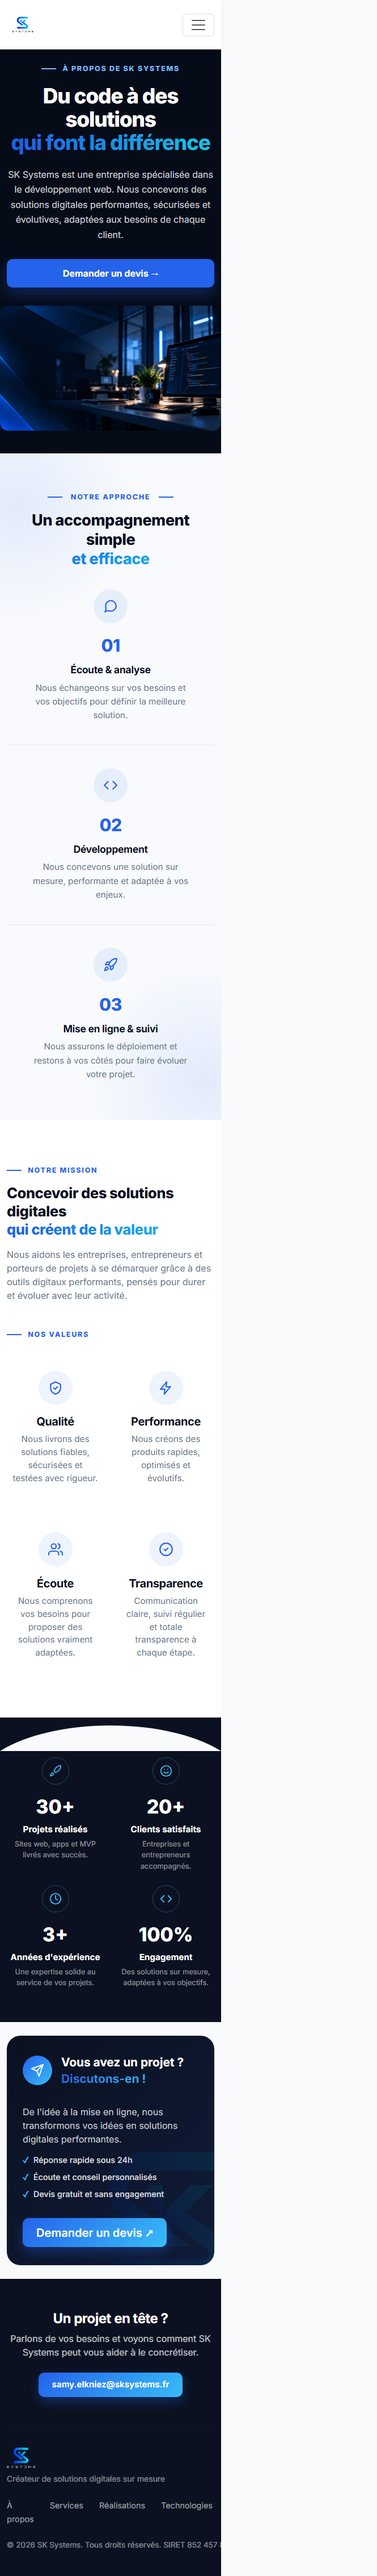
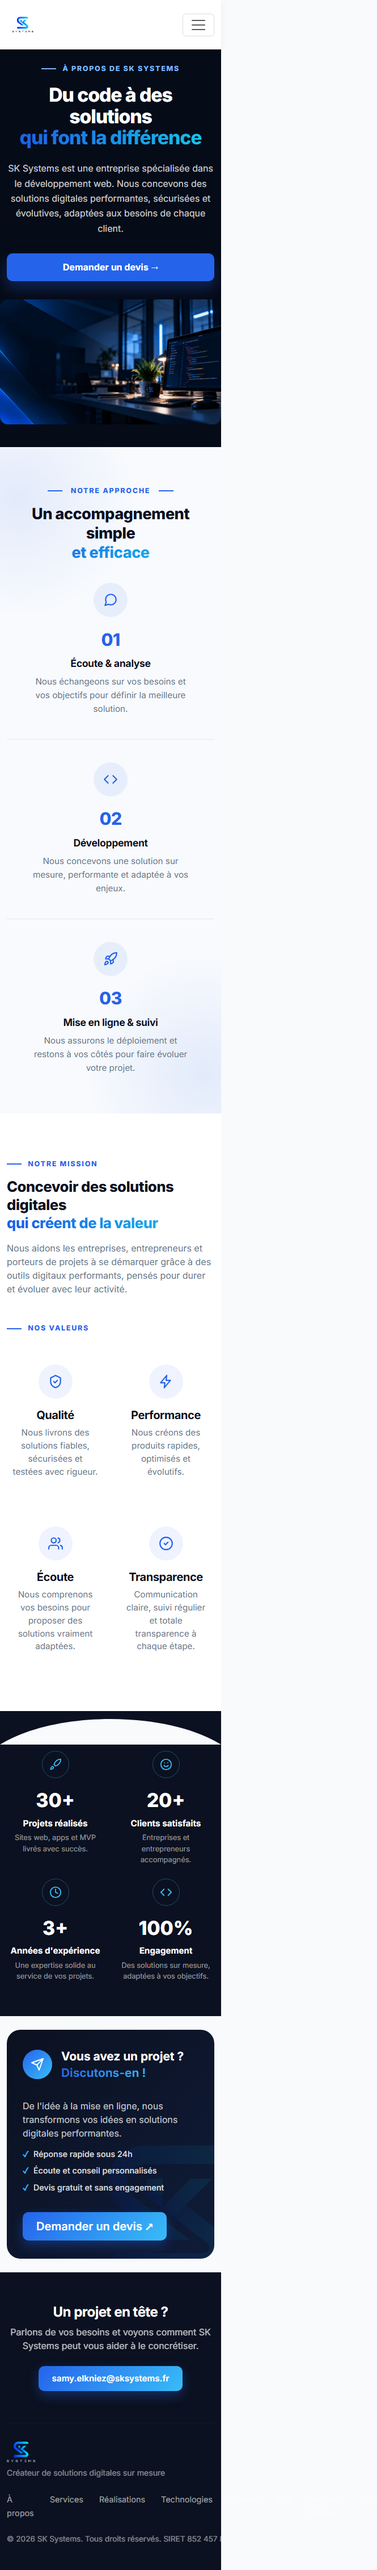
Corrige la hauteur et l'alignement du hero /a-propos
- Supprime le min-height en vh et le centrage flex qui cachaient le
  sur-titre derriere le header sur les ecrans courts (ex. 1280x720) et
  collaient le bouton au bas de la photo. Le hero garde une hauteur
  minimale (480px) mais s'adapte desormais a son contenu via un padding
  fixe : >= 92px entre le header et le sur-titre, exactement 96px entre
  le bouton et le bas de la photo, verifie a 1672x940, 1440x900 et
  1280x720 (mesures Playwright, plus de chevauchement a aucune taille).
- Reduit legerement la taille du titre pour se rapprocher des
  proportions de la maquette.
- Le texte utilise deja le meme .container Bootstrap que le header ;
  verifie que le bord gauche est bien identique au bord du logo a
  chaque taille testee.
- Verifie que l'accueil est inchange, 9 routes OK, menu burger et
  modale de devis en mobile. Captures desktop (1672x940, 1440x900,
  1280x720), tablette et mobile mises a jour dans docs/captures/.

Changed region(s): [[0.0, 0.3117, 0.5714, 0.935], [0.0, 0.0312, 0.6015, 0.2805], [0.1203, 0.3117, 0.1504, 0.3428]]

diff --git a/public/css/a-propos.css b/public/css/a-propos.css
@@ -14,10 +14,9 @@
 
 @media (min-width: 992px) {
     .hero-a-propos {
-        min-height: 58vh;
-        display: flex;
-        align-items: center;
-        padding-top: 5.5rem;
+        min-height: 480px;
+        padding-top: 12rem;
+        padding-bottom: 6rem;
     }
 
     .hero-a-propos-bg {
@@ -43,7 +42,7 @@
     }
 
     .hero-a-propos-copy {
-        max-width: 660px;
+        max-width: 620px;
     }
 }
 
@@ -69,7 +68,7 @@
     font-weight: 800;
     line-height: 1.12;
     letter-spacing: -.03em;
-    font-size: clamp(2.3rem, 3.9vw, 3.55rem);
+    font-size: clamp(2.1rem, 3.3vw, 3.1rem);
     color: #fff;
 }
 
